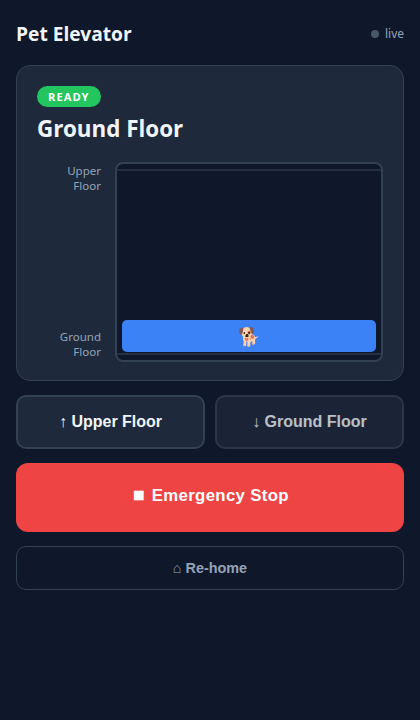
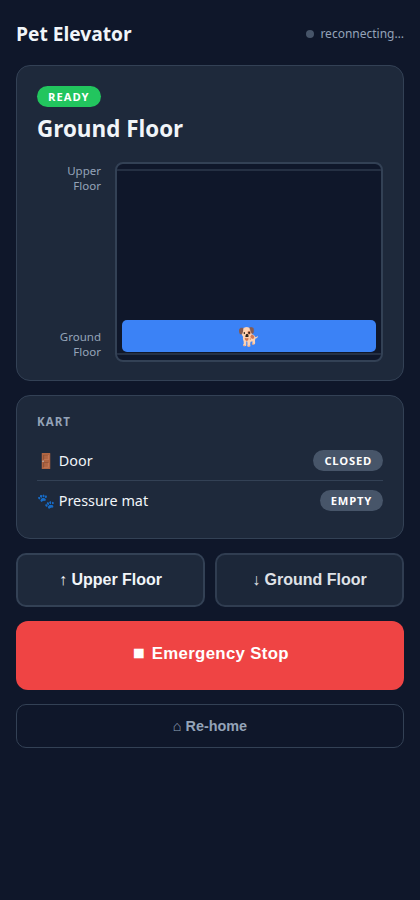
Add kart interlock status card to web UI
Adds a "Kart" card between the shaft and floor buttons showing:
- Door: green CLOSED / red pulsing OPEN ⚠ / gray UNKNOWN
- Pressure mat: green DOG ABOARD / gray EMPTY / gray UNKNOWN

Both pills update in real time via the existing SSE stream — no new
endpoints needed since kart_door and dog_present are already in the
status payload.

diff --git a/controller/templates/index.html b/controller/templates/index.html
@@ -229,6 +229,45 @@ button:disabled {
   border-color: var(--amber);
   color: var(--amber);
 }
+
+/* ── Interlock card ── */
+.card-title {
+  font-size: 0.72rem;
+  font-weight: 700;
+  letter-spacing: 0.09em;
+  text-transform: uppercase;
+  color: var(--muted);
+  margin-bottom: 12px;
+}
+
+.interlock-row {
+  display: flex;
+  align-items: center;
+  justify-content: space-between;
+  padding: 9px 0;
+  border-bottom: 1px solid var(--border);
+}
+.interlock-row:last-child { border-bottom: none; }
+
+.interlock-label {
+  font-size: 0.9rem;
+  color: var(--text);
+}
+
+.interlock-pill {
+  padding: 3px 11px;
+  border-radius: 20px;
+  font-size: 0.7rem;
+  font-weight: 700;
+  letter-spacing: 0.07em;
+  text-transform: uppercase;
+  background: var(--gray);
+  color: #fff;
+  transition: background 0.3s;
+}
+.interlock-pill.ok   { background: var(--green); }
+.interlock-pill.warn { background: var(--red); animation: pulse-red 1s ease-in-out infinite; }
+.interlock-pill.info { background: var(--blue); }
 </style>
 </head>
 <body>
@@ -254,6 +293,19 @@ button:disabled {
     <div class="shaft" id="shaft">
       <div id="carriage">🐕</div>
     </div>
+  </div>
+</div>
+
+<!-- Kart interlocks -->
+<div class="card">
+  <div class="card-title">Kart</div>
+  <div class="interlock-row">
+    <span class="interlock-label">🚪 Door</span>
+    <span class="interlock-pill" id="door-pill">—</span>
+  </div>
+  <div class="interlock-row">
+    <span class="interlock-label">🐾 Pressure mat</span>
+    <span class="interlock-pill" id="pressure-pill">—</span>
   </div>
 </div>
 
@@ -301,6 +353,32 @@ function updateUI(s) {
   const pct      = Math.min(1, Math.max(0, pos / TOTAL_STEPS));
   const travel   = shaft.clientHeight - carriage.offsetHeight - 12;
   carriage.style.bottom = (6 + pct * travel) + 'px';
+
+  // Kart door
+  const doorPill = document.getElementById('door-pill');
+  if (s.kart_door === 'closed') {
+    doorPill.textContent = 'Closed';
+    doorPill.className   = 'interlock-pill ok';
+  } else if (s.kart_door === 'open') {
+    doorPill.textContent = 'Open ⚠';
+    doorPill.className   = 'interlock-pill warn';
+  } else {
+    doorPill.textContent = 'Unknown';
+    doorPill.className   = 'interlock-pill';
+  }
+
+  // Pressure mat
+  const pressurePill = document.getElementById('pressure-pill');
+  if (s.dog_present === true) {
+    pressurePill.textContent = 'Dog aboard';
+    pressurePill.className   = 'interlock-pill ok';
+  } else if (s.dog_present === false) {
+    pressurePill.textContent = 'Empty';
+    pressurePill.className   = 'interlock-pill';
+  } else {
+    pressurePill.textContent = 'Unknown';
+    pressurePill.className   = 'interlock-pill';
+  }
 
   // Buttons
   const idle = s.state === 'idle';